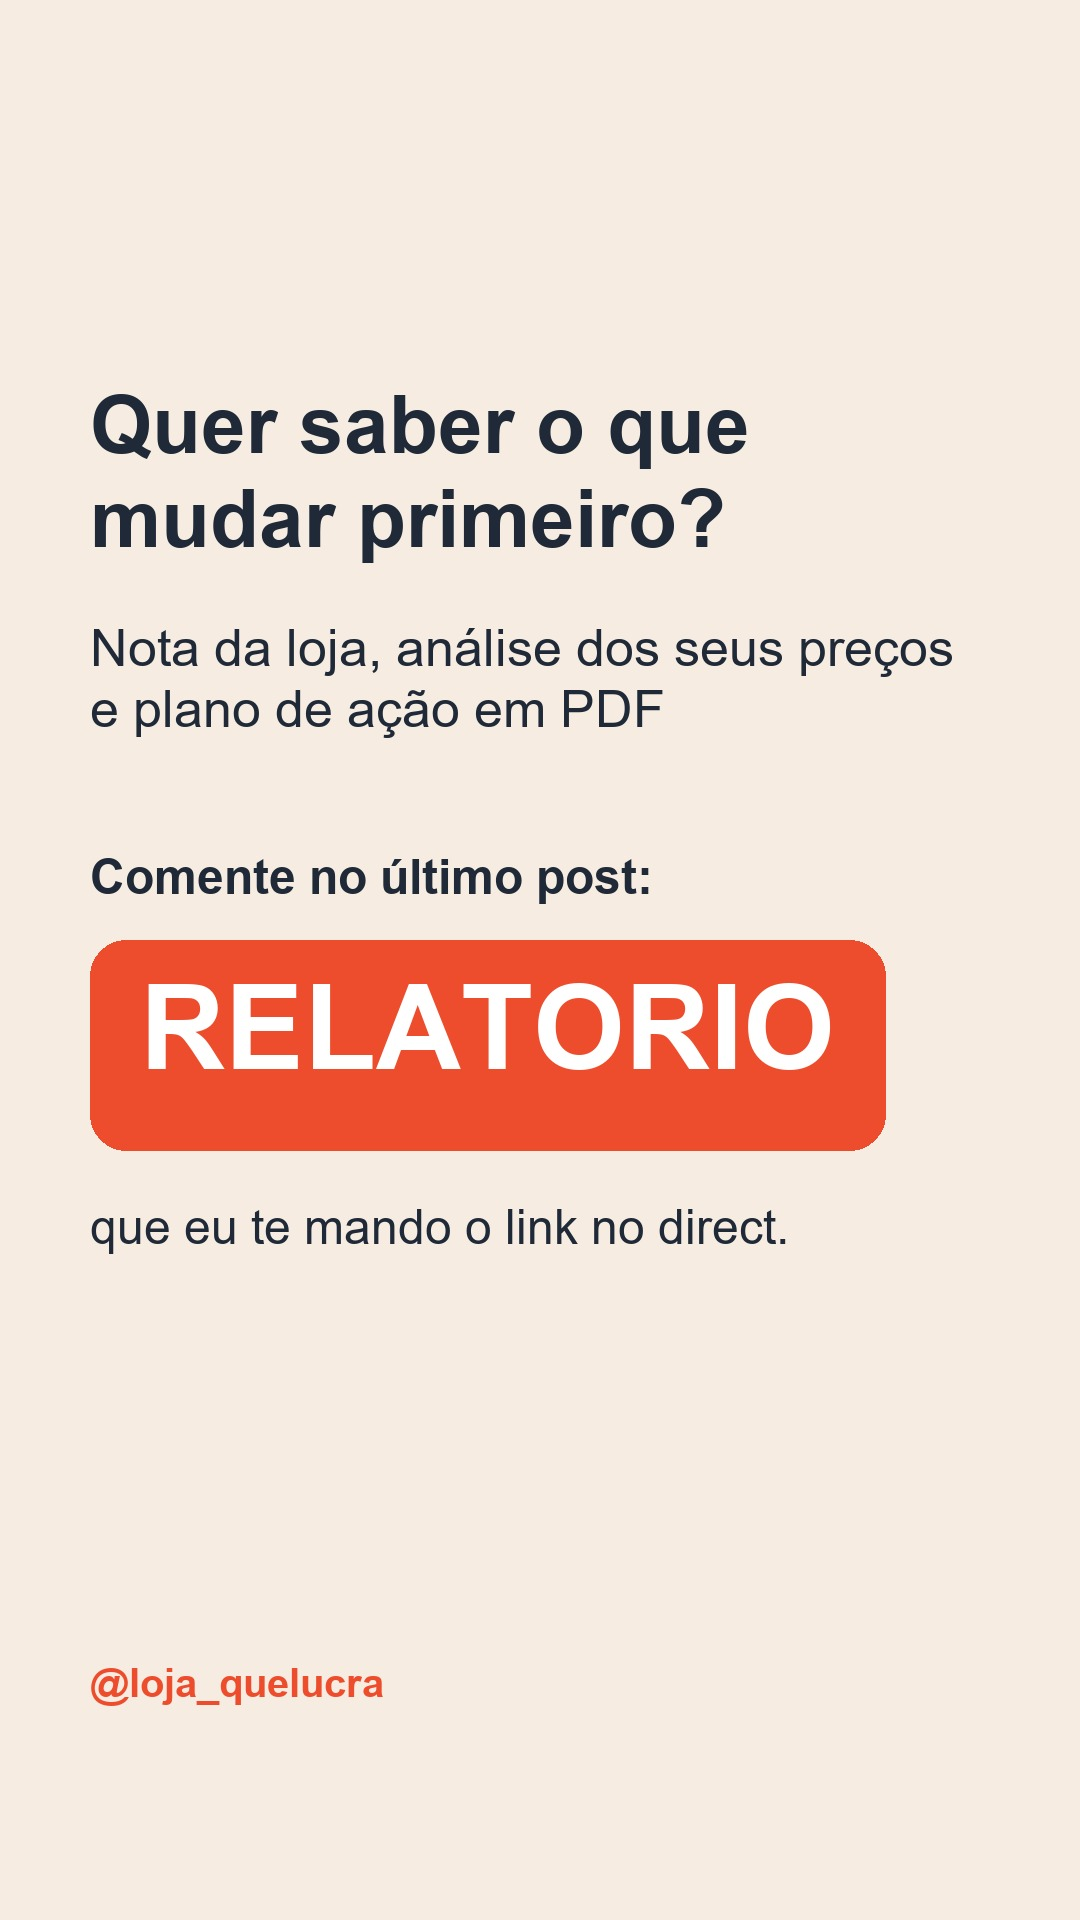
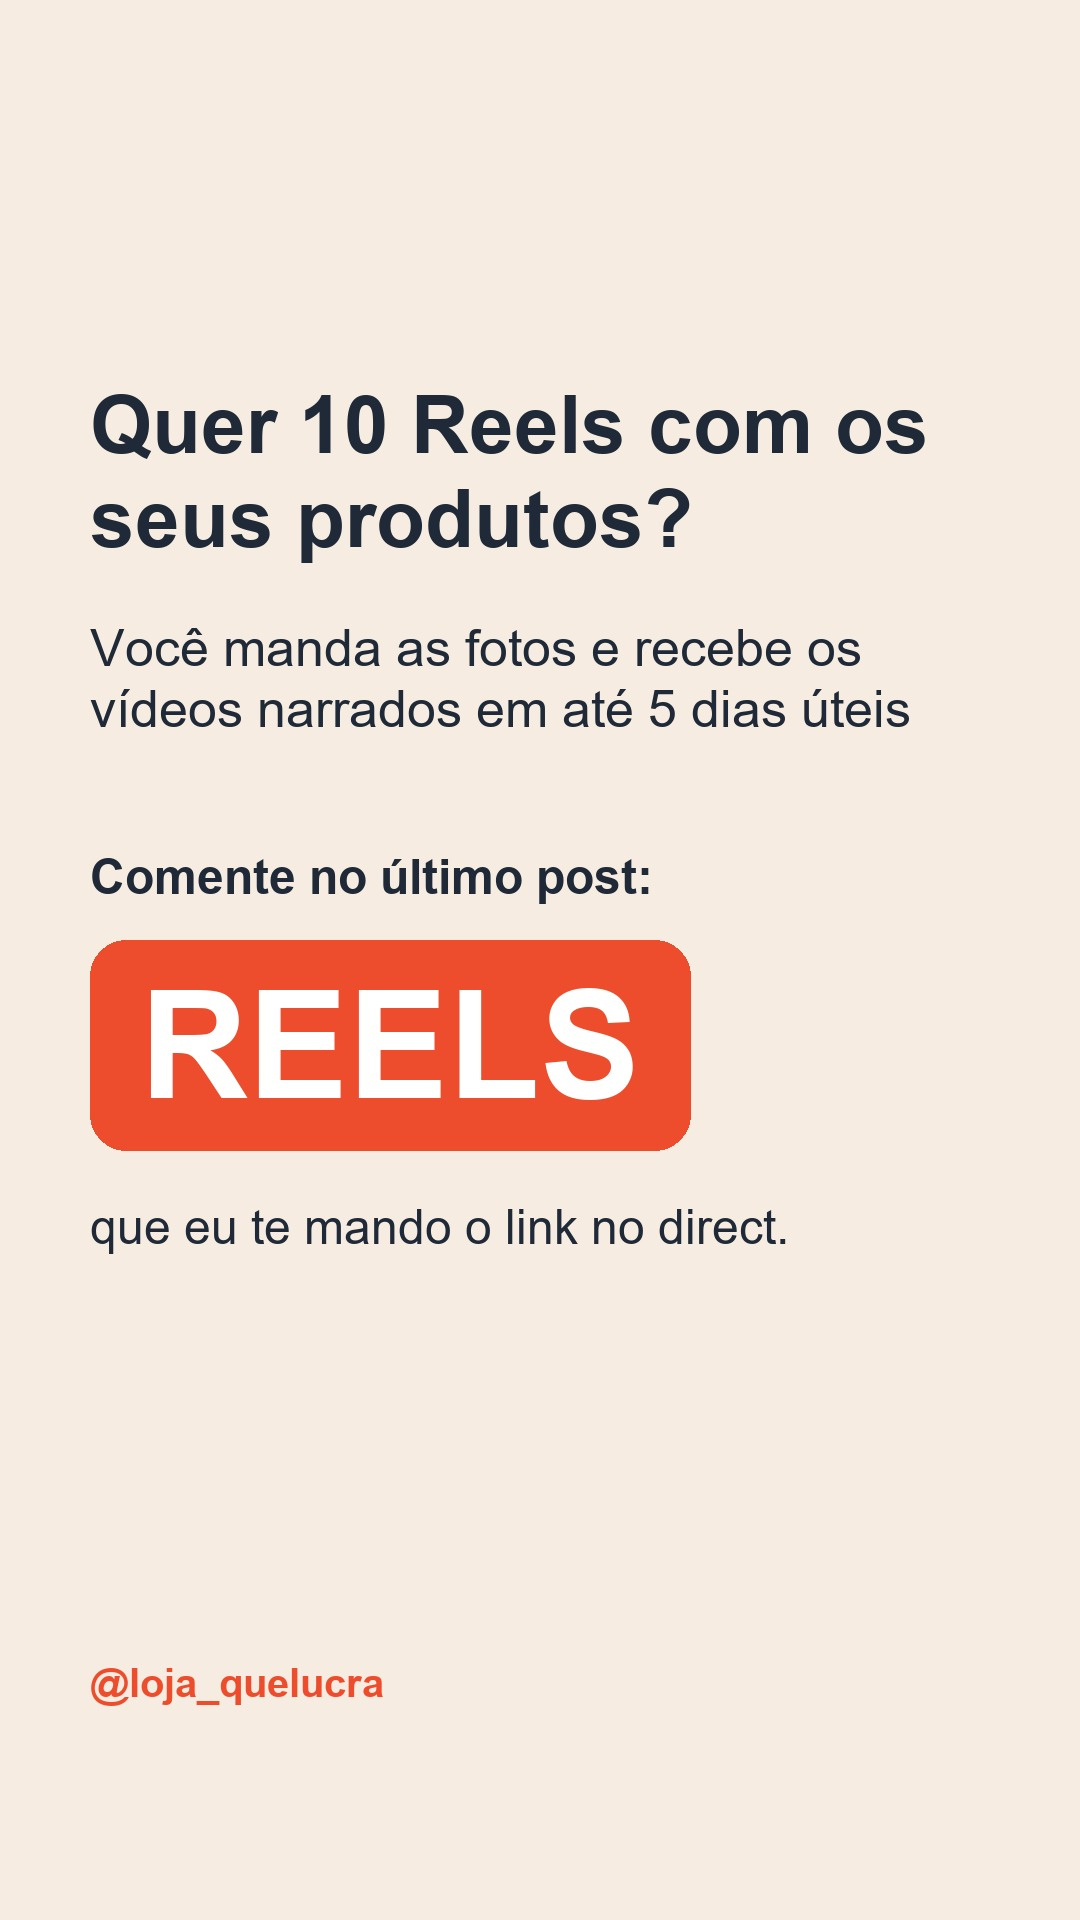
Calendario: lancamentos no lugar do Reels das 19h (1 post/dia), Reels deslocados ate 09/12, Stories com produtos novos ate 09/12

Changed region(s): [[0.0917, 0.1875, 0.8861, 0.375], [0.1222, 0.4688, 0.825, 0.625]]

diff --git a/gerar_stories.py b/gerar_stories.py
@@ -48,6 +48,19 @@ DICAS = [
     "Use o mesmo fundo e o mesmo estilo nas fotos. A loja fica reconhecível no meio da busca.",
     "Separe um valor fixo por mês para anúncio e meça o resultado. Gasto sem medir é aposta.",
     "Antes de entrar num marketplace novo, simule as taxas dele com o seu produto. Cada canal cobra diferente.",
+    "Kit com produto parado + campeão de venda gira o estoque sem queimar a margem.",
+    "Antes de comprar coleção nova, veja quanto dinheiro ainda está parado na coleção passada.",
+    "No Mercado Livre, Clássico e Premium têm taxas diferentes. Simule os dois antes de escolher.",
+    "Responda avaliação positiva também. Agradecer em público mostra que tem gente cuidando da loja.",
+    "Natal pede kit presente e embalagem caprichada. Monte os kits na primeira semana de dezembro.",
+    "Depois da Black Friday, olhe o que sobrou e planeje a saída antes do Natal.",
+    "Kit de presente com preço fechado facilita a decisão de quem compra para outra pessoa.",
+    "Salve suas respostas mais usadas como atalhos no WhatsApp Business e responda em segundos.",
+    "Foto de detalhe (costura, sola, etiqueta) responde a dúvida que o cliente nem chegou a perguntar.",
+    "Antes da virada do ano, faça o inventário: o que tem, quanto custou e há quanto tempo está parado.",
+    "Planeje janeiro em dezembro: a liquidação de verão começa logo depois das festas.",
+    "Reels com o produto em uso mostra caimento e tamanho melhor que qualquer descrição.",
+    "Copie as taxas reais da sua conta na calculadora. Taxa chutada dá lucro chutado.",
 ]
 MITOS = [  # (afirmação, é verdade?, explicação)
     ("Preço mais baixo sempre vende mais.", False, "Preço baixo sem margem vende e dá prejuízo. Preço certo com anúncio bom vende melhor."),
@@ -81,6 +94,19 @@ MITOS = [  # (afirmação, é verdade?, explicação)
     ("Copiar o preço do concorrente é seguro.", False, "O custo dele não é o seu. Calcule o seu preço pelo seu custo."),
     ("Investir pouco em anúncio não adianta nada.", False, "Um valor pequeno e medido mostra o que funciona antes de gastar mais."),
     ("Produto bom se vende sozinho.", False, "Sem foto, título e preço certos, o cliente nem chega a ver o produto."),
+    ("Desconto alto é a única forma de vender na Black Friday.", False, "Kit, brinde e frete bem calculado também atraem, sem destruir a margem."),
+    ("Clássico e Premium do Mercado Livre cobram a mesma taxa.", False, "O Premium cobra mais e oferece parcelamento sem juros ao cliente."),
+    ("Arrependimento e defeito têm o mesmo prazo.", False, "Arrependimento: 7 dias na compra online. Defeito: garantia legal de 30 ou 90 dias."),
+    ("Responder avaliação positiva também ajuda.", True, "Mostra que a loja é cuidada e incentiva outros clientes a avaliar."),
+    ("Embalagem caprichada faz diferença no Natal.", True, "Quem compra presente valoriza receber pronto para entregar."),
+    ("Inventário é coisa de loja grande.", False, "Sem saber o que tem e há quanto tempo está parado, você compra errado."),
+    ("Mensagem pronta deixa o atendimento frio.", False, "Ela é a base: você ajusta o nome e o detalhe e responde rápido."),
+    ("Planejar a liquidação de janeiro em dezembro é cedo demais.", False, "Quem decide antes o que vai liquidar não precisa correr depois das festas."),
+    ("Taxa chutada na calculadora dá lucro chutado.", True, "Copie as taxas reais da sua conta antes de definir o preço."),
+    ("Kit com produto parado ajuda a girar o estoque.", True, "Junto de um campeão de vendas, o parado sai sem você baixar o preço."),
+    ("Foto de detalhe é exagero.", False, "Costura, sola e etiqueta respondem dúvidas e passam confiança."),
+    ("Comprar coleção nova resolve o estoque parado.", False, "Coleção nova sem girar a antiga só aumenta o dinheiro parado."),
+    ("Conteúdo pronto deixa o perfil igual aos outros.", False, "Com as suas fotos, cores e @, o post fica com a cara da sua loja."),
 ]
 FRASES = [
     "Vender muito não é o mesmo que lucrar.", "Preço certo não espanta cliente. Espanta prejuízo.",
@@ -91,6 +117,9 @@ FRASES = [
     "Fechar o mês é a reunião mais importante da sua loja.", "Seu concorrente não sabe o seu custo.",
     "Uma troca evitada vale mais que uma venda no prejuízo.", "Loja organizada vende com menos esforço.",
     "Quem se prepara antes vende na data. Quem corre depois, liquida.",
+    "Estoque que gira é dinheiro que volta.", "Atendimento rápido também é marketing.",
+    "Taxa certa, preço certo, lucro de verdade.", "Post bom é post publicado.", "Cada canal tem a sua conta.",
+    "Planejar a data custa menos que liquidar depois.",
 ]
 CTAS = [  # (palavra, pergunta, o que é)
     ("KIT", "Não sabe quanto sobra depois das taxas?", "Calculadora de Markup e Lucro + Guia do Anúncio que Vende"),
@@ -103,7 +132,16 @@ CTAS = [  # (palavra, pergunta, o que é)
     ("AUDITORIA", "Quer saber a nota da sua loja?", "Audite a loja sozinho em uma tarde"),
     ("POSTS", "Instagram da loja parado?", "36 posts com fotos reais e legendas prontas, no Canva grátis"),
     ("RELATORIO", "Quer saber o que mudar primeiro?", "Nota da loja, análise dos seus preços e plano de ação em PDF"),
+    ("ESTOQUE", "Quanto dinheiro está parado na sua prateleira?", "Planilha Estoque que Gira: curva ABC, dinheiro parado e quanto repor"),
+    ("ML", "Vende no Mercado Livre?", "Calculadora 2026 com as taxas da sua conta + bônus TikTok Shop"),
+    ("RESPOSTAS", "Responde tudo do zero?", "122 mensagens prontas para atendimento, trocas e avaliações"),
+    ("REELS", "Quer 10 Reels com os seus produtos?", "Você manda as fotos e recebe os vídeos narrados em até 5 dias úteis"),
+    ("CALENDARIO", "Já sabe as datas que vendem em 2027?", "Calendário Comercial 2027: 32 datas e quando preparar cada uma"),
+    ("CONTEUDO", "Sem ideia do que postar?", "Todo mês: 20 posts no Canva, roteiros de Reels e legendas"),
+    ("COMBO", "Quer os 4 produtos essenciais juntos?", "Calculadora, auto-consultoria, financeiro e 36 posts por R$ 127"),
 ]
+# Story de produto no dia do Reels de lançamento: chama o mesmo produto
+CTA_DO_REEL = {"estoque": "ESTOQUE", "ml": "ML", "respostas": "RESPOSTAS", "reels": "REELS", "calendario": "CALENDARIO", "conteudo": "CONTEUDO"}
 SLOTS = [(8, 40), (11, 0), (15, 0), (17, 30), (21, 0)]
 
 
@@ -220,7 +258,11 @@ def main():
                     st_slide(os.path.join(BASE, arq), os.path.join(BASE, s), "SALVOU ESSE?", "Tá no perfil, junto com os outros posts")
             elif i == 3:
                 arq, tit = f"midia/stories/{ds}-4-cta.jpg", "Story: chamada de produto"
-                st_cta(os.path.join(BASE, arq), *CTAS[k % len(CTAS)])
+                cta = CTAS[k % len(CTAS)]
+                lanc = post and "midia/lancamento/" in post["arquivos"] and os.path.basename(post["arquivos"]).split("_")[0].rstrip("2")
+                if lanc in CTA_DO_REEL:
+                    cta = next(c for c in CTAS if c[0] == CTA_DO_REEL[lanc])
+                st_cta(os.path.join(BASE, arq), *cta)
             else:
                 if post and post["tipo"] == "reels":
                     arq, tit = post["arquivos"].strip(), "Story: Reels do dia"
